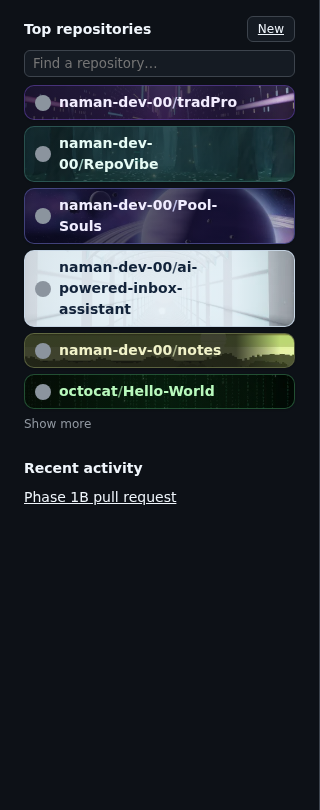
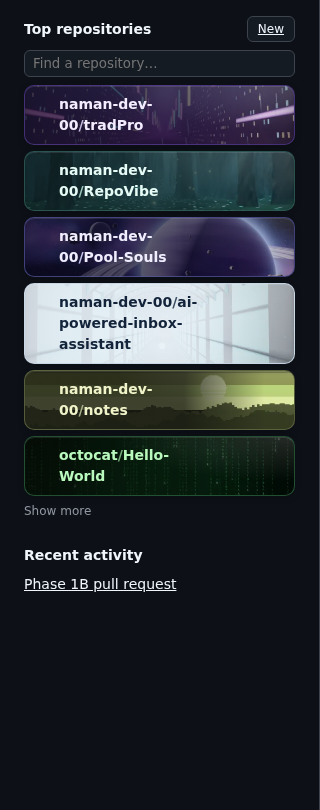
Home: robust Top repositories adapter (fixes missing themed cards on React-style sidebars)
Root cause (reproduced): the adapter only themed <li> rows, needed an h2/h3 heading with exact text or a
legacy container id, and painted the art on the <li> only. On sidebar markup with div[role=listitem]
rows, a heading in a span, or rows that are the link itself, it themed 0 of 6 rows; and where a row
wrapper paints GitHub's opaque surface the art was hidden even when detected.

New scoped adapter: finds the list by legacy id, landmark/label or heading text; recognises rows
structurally (largest ancestor of a /owner/repo link that holds no other repository); neutralises inner
row backgrounds only inside themed rows; per-row diagnostics (method, links, themed/unthemed with reason)
in Studio > Settings > Diagnostics. Cards: art across the row, light sheen, hover lift with subtle
perspective, accent glow. Tests: React and anchor sidebar variants (themes, visible art, contrast,
sync, dynamic rows, click-through, exact DOM restore).

Claude-Session: https://claude.ai/code/session_018pJs9o4gSBzLeWY4NbbjW7

Changed region(s): [[0.0625, 0.0926, 0.9375, 0.6481], [0.0625, 0.679, 0.5625, 0.7407]]

diff --git a/content.js b/content.js
@@ -362,22 +362,59 @@ ${M}.repv-motion-cinematic body::before { animation:repv-parallax 48s ease-in-ou
      readable. Only rows whose link is exactly /owner/repo are styled; links, avatars and click behaviour are untouched
      (we only add data-repv-card* attributes and one <style>). Nothing is fetched from GitHub. */
   const isHome = () => location.hostname === 'github.com' && (location.pathname === '/' || location.pathname === '/dashboard');
-  const HEADING = /^\s*top repositories\s*$/i;
-  function topRepositoryRows() {
-    let container = document.getElementById('dashboard-repos-container') || document.querySelector('.js-repos-container');
-    if (!container) {
-      const heading = [...document.querySelectorAll('aside h2, aside h3, h2, h3, [role="heading"]')].find(h => HEADING.test(h.textContent || ''));
-      for (let el = heading?.parentElement, i = 0; el && i < 5 && !container; el = el.parentElement, i++) if (el.querySelector('li a[href]')) container = el;
-    }
-    if (!container) return [];
-    const rows = [];
-    for (const li of container.querySelectorAll('li')) {
-      for (const a of li.querySelectorAll('a[href]')) {
-        let u; try { u = new URL(a.getAttribute('href'), location.origin); } catch (_) { continue; }
-        if (u.origin !== location.origin || u.pathname.split('/').filter(Boolean).length !== 2) continue;
-        const repo = C.repositoryFromUrl(u.href);
-        if (repo) { rows.push({ li, repo, href: u.href }); break; }
+  /* Homepage adapter. GitHub's signed-in dashboard has been served both as classic markup (#dashboard-repos-container,
+     <li> rows) and as React (hashed classes, div[role=listitem] rows, headings in spans). Nothing here depends on one
+     selector: (1) find the Top repositories list by legacy id, landmark/label or its heading text; (2) find every link
+     whose path is exactly /owner/repo inside it; (3) the row is the largest ancestor of a link that contains no other
+     repository (works for li, div rows and rows that are the link itself). Each decision is recorded for diagnostics. */
+  const HEADING = /^\s*top\s+repositories\s*$/i;
+  const REPO_LIST_LABEL = /top repositories/i;
+  let cardDiag = { home: false };
+  function repoKeyOf(a) {
+    let u; try { u = new URL(a.getAttribute('href'), location.origin); } catch (_) { return null; }
+    if (u.origin !== location.origin || u.search || u.pathname.split('/').filter(Boolean).length !== 2) return null;
+    return C.repositoryFromUrl(u.href);
+  }
+  function findRepoList() {
+    const legacy = document.getElementById('dashboard-repos-container') || document.querySelector('.js-repos-container');
+    if (legacy) return { container: legacy, method: 'legacy id' };
+    const labelled = [...document.querySelectorAll('[aria-label], [data-testid]')].find(el => REPO_LIST_LABEL.test(el.getAttribute('aria-label') || '') || /top-?repositories/i.test(el.getAttribute('data-testid') || ''));
+    if (labelled && labelled.querySelector('a[href]')) return { container: labelled, method: 'label' };
+    // Heading text: any short element whose whole text is "Top repositories" (h1–h6, role=heading, span, div, summary).
+    const heading = [...document.querySelectorAll('h1, h2, h3, h4, h5, h6, [role="heading"], summary, span, div')]
+      .find(el => (el.textContent || '').length <= 40 && HEADING.test(el.textContent || ''));
+    if (!heading) return { container: null, method: 'none', reason: 'no "Top repositories" heading, landmark or legacy container on this page' };
+    for (let el = heading.parentElement, i = 0; el && el !== document.body && i < 10; el = el.parentElement, i++) {
+      const links = [...el.querySelectorAll('a[href]')].filter(a => !heading.contains(a) && repoKeyOf(a));
+      if (links.length) {
+        // Never take a container as wide as the feed: the sidebar list is narrow.
+        if (el.getBoundingClientRect().width > Math.max(560, innerWidth * 0.55)) return { container: null, method: 'heading', reason: 'heading found but its nearest list container is as wide as the page (feed), not themed' };
+        return { container: el, method: 'heading', heading };
       }
+    }
+    return { container: null, method: 'heading', reason: 'heading found but no repository links near it yet (list still loading?)' };
+  }
+  function topRepositoryRows() {
+    const found = findRepoList();
+    cardDiag = { home: true, method: found.method, reason: found.reason || '', links: 0, rows: [] };
+    if (!found.container) return [];
+    const container = found.container;
+    const links = [...container.querySelectorAll('a[href]')].filter(a => !(found.heading && found.heading.contains(a)));
+    const rows = [], seen = new Set();
+    for (const a of links) {
+      const repo = repoKeyOf(a);
+      if (!repo) continue;
+      cardDiag.links++;
+      // Largest ancestor (inside the container) that holds only this repository's links.
+      let row = a;
+      for (let el = a.parentElement; el && el !== container; el = el.parentElement) {
+        const keys = new Set([...el.querySelectorAll('a[href]')].map(x => repoKeyOf(x)?.key).filter(Boolean));
+        if (keys.size > 1 || el.querySelector('input, textarea, select, h1, h2, h3')) break;
+        row = el;
+      }
+      if (seen.has(row)) continue;
+      seen.add(row);
+      rows.push({ row, repo });
     }
     return rows;
   }
@@ -407,46 +444,56 @@ ${M}.repv-motion-cinematic body::before { animation:repv-parallax 48s ease-in-ou
     // name, muted owner and accent against the brightest/darkest pixels of the art).
     const a = C.requiredGlass({ ...v, surface: v.bg, glassOpacity: 62, wallpaperOverlay: 0, wallpaperBrightness: 100, wallpaperOpacity: 100 }, C.wallpaperTone(v.wallpaperRef));
     const img = cardImage(theme);
-    return `li[data-repv-card="${theme.id}"] { --repv-card-glass:${rgba(v.bg, a)}; --repv-card-solid:${v.bg}; --repv-card-text:${v.text};
+    return `[data-repv-card="${theme.id}"] { --repv-card-glass:${rgba(v.bg, a)}; --repv-card-solid:${v.bg}; --repv-card-text:${v.text};
  --repv-card-muted:${v.muted}; --repv-card-accent:${v.accent}; --repv-card-border:${rgba(v.border, 0.9)};
  --repv-card-img:${img ? `url("${img}")` : `linear-gradient(135deg, ${v.bg}, ${v.gradientTo} 60%, ${v.gradientThird})`}; }`;
   }
   const CARD_CSS = `
-li[data-repv-card] { position:relative; list-style:none; margin:6px 0 0 !important; padding:6px 46px 6px 10px !important; border-radius:10px;
+[data-repv-card] { position:relative; list-style:none; margin:6px 0 0 !important; padding:8px 84px 8px 10px !important; border-radius:10px; min-height:40px; box-sizing:border-box;
  border:1px solid var(--repv-card-border); overflow:hidden; color:var(--repv-card-text) !important;
  background-color:var(--repv-card-solid) !important;
- background-image:linear-gradient(90deg, var(--repv-card-glass) 0, var(--repv-card-glass) calc(100% - 58px), transparent calc(100% - 14px)), var(--repv-card-img) !important;
- background-size:auto, cover !important; background-position:center, center right !important; background-repeat:no-repeat !important;
- box-shadow:0 1px 2px rgba(0,0,0,.18); }
-li[data-repv-card] > div { margin-top:0 !important; align-items:center; }
-li[data-repv-card] a, li[data-repv-card] a * { color:var(--repv-card-text) !important; }
-li[data-repv-card] a span, li[data-repv-card] .color-fg-muted { color:var(--repv-card-muted) !important; }
-li[data-repv-card] a:hover { text-decoration:underline; text-decoration-color:var(--repv-card-accent); }
-li[data-repv-card]:focus-within { outline:2px solid var(--repv-card-accent); outline-offset:1px; }
+ background-image:radial-gradient(120% 140% at 100% 0%, rgba(255,255,255,.14), transparent 55%), linear-gradient(90deg, var(--repv-card-glass) 0, var(--repv-card-glass) calc(100% - 110px), rgba(0,0,0,.04) calc(100% - 30px)), var(--repv-card-img) !important;
+ background-size:auto, auto, cover !important; background-position:center, center, center right !important; background-repeat:no-repeat !important;
+ box-shadow:inset 0 1px 0 rgba(255,255,255,.10), 0 2px 6px rgba(0,0,0,.22); }
+[data-repv-card][data-repv-card-inline] { display:block !important; }
+/* GitHub's own row wrappers must not paint over the card art (React rows often carry an opaque background). */
+[data-repv-card] :is(div, span, li, ul, p, strong, small, header, footer, section) { background-color:transparent !important; background-image:none !important; }
+[data-repv-card] > div { margin-top:0 !important; align-items:center; }
+[data-repv-card] a, [data-repv-card] a *, a[data-repv-card], a[data-repv-card] * { color:var(--repv-card-text) !important; }
+[data-repv-card] a span, [data-repv-card] .color-fg-muted { color:var(--repv-card-muted) !important; }
+[data-repv-card] a:hover, a[data-repv-card]:hover { text-decoration:underline; text-decoration-color:var(--repv-card-accent); }
+[data-repv-card]:focus-within, a[data-repv-card]:focus-visible { outline:2px solid var(--repv-card-accent); outline-offset:1px; }
 @media (prefers-reduced-motion:no-preference) {
- li[data-repv-card] { transition:transform .16s ease, box-shadow .16s ease, border-color .16s ease; }
- li[data-repv-card]:hover { transform:translateY(-1px); border-color:var(--repv-card-accent); box-shadow:0 6px 16px rgba(0,0,0,.28), 0 0 0 1px var(--repv-card-accent); }
+ [data-repv-card] { transition:transform .22s cubic-bezier(.2,.7,.2,1), box-shadow .22s ease, border-color .22s ease, background-position .6s ease; transform-origin:50% 100%; }
+ [data-repv-card]:hover { transform:perspective(520px) rotateX(4deg) translateY(-2px); border-color:var(--repv-card-accent);
+  background-position:center, center, 70% 40% !important; box-shadow:inset 0 1px 0 rgba(255,255,255,.18), 0 10px 22px rgba(0,0,0,.35), 0 0 0 1px var(--repv-card-accent), 0 0 18px -4px var(--repv-card-accent); }
 }
-@media (prefers-contrast:more) { li[data-repv-card] { background-image:none !important; } }
-@media (forced-colors:active) { li[data-repv-card] { background:none !important; border:1px solid CanvasText; padding:4px 0 !important; }
- li[data-repv-card] a, li[data-repv-card] a * { color:LinkText !important; } }
+@media (prefers-contrast:more) { [data-repv-card] { background-image:none !important; } }
+@media (forced-colors:active) { [data-repv-card] { background:none !important; border:1px solid CanvasText; padding:4px 0 !important; }
+ [data-repv-card] a, [data-repv-card] a * { color:LinkText !important; } }
 `;
   function clearCards() {
     document.getElementById(CARDS_STYLE_ID)?.remove();
-    for (const li of document.querySelectorAll('li[data-repv-card]')) li.removeAttribute('data-repv-card');
+    for (const el of document.querySelectorAll('[data-repv-card]')) { el.removeAttribute('data-repv-card'); el.removeAttribute('data-repv-card-inline'); }
   }
   let lastCardsCss = '';
   function renderCards() {
     if (tornDown) return;
-    const rows = isHome() && config.enabled ? topRepositoryRows() : [];
-    if (!rows.length) { if (lastCardsCss || document.querySelector('li[data-repv-card]')) { clearCards(); lastCardsCss = ''; } return; }
+    if (!isHome()) { cardDiag = { home: false }; if (lastCardsCss || document.querySelector('[data-repv-card]')) { clearCards(); lastCardsCss = ''; } return; }
+    if (!config.enabled) { cardDiag = { home: true, reason: 'RepoVibe is turned off' }; clearCards(); lastCardsCss = ''; return; }
+    const rows = topRepositoryRows();
+    if (!rows.length) { if (lastCardsCss || document.querySelector('[data-repv-card]')) { clearCards(); lastCardsCss = ''; } return; }
     const themes = new Map(), unpersisted = [];
-    for (const { li, repo } of rows) {
+    for (const { row, repo } of rows) {
       const r = C.themeResolution(config, `https://github.com/${repo.key}`);
       if (r.source === 'auto' && !r.persisted) unpersisted.push(repo.key);
-      if (!r.theme) { if (li.hasAttribute('data-repv-card')) li.removeAttribute('data-repv-card'); continue; }
+      const why = !r.theme ? (r.id === 'native' ? `${r.scope} choice is "Original GitHub"` : r.scope === 'global' && !config.autoAssign ? 'automatic themes are off and the global theme is Original GitHub' : 'no theme resolved') : '';
+      cardDiag.rows.push({ repo: repo.label, row: row.tagName.toLowerCase(), theme: r.theme ? r.theme.name : null, source: r.scope, reason: why });
+      if (!r.theme) { if (row.hasAttribute('data-repv-card')) row.removeAttribute('data-repv-card'); continue; }
       themes.set(r.theme.id, r.theme);
-      if (li.getAttribute('data-repv-card') !== r.theme.id) li.setAttribute('data-repv-card', r.theme.id);
+      if (row.getAttribute('data-repv-card') !== r.theme.id) row.setAttribute('data-repv-card', r.theme.id);
+      const inline = getComputedStyle(row).display === 'inline';
+      if (inline !== row.hasAttribute('data-repv-card-inline')) row.toggleAttribute('data-repv-card-inline', inline);
     }
     if (unpersisted.length) persistAutoAssignments(unpersisted);
     const css = themes.size ? CARD_CSS + [...themes.values()].map(cardRule).join('\n') : '';
@@ -616,7 +663,8 @@ li[data-repv-card]:focus-within { outline:2px solid var(--repv-card-accent); out
       theme: t && { id: t.id, name: t.name, wallpaperBlur: t.wallpaperBlur, panelBlur: t.glass, overlay: t.wallpaperOverlay, brightness: t.wallpaperBrightness, opacity: t.wallpaperOpacity, panelOpacityChosen: t.glassOpacity },
       panelOpacityRendered: Number(cs.getPropertyValue('--repv-panel-opacity')) || null,
       panelsWithBackdropBlur: blurs.length, panelsDetected: document.querySelectorAll('[data-repv-panel]').length,
-      wallpaperOnRoot: /url\(/.test(cs.backgroundImage)
+      wallpaperOnRoot: /url\(/.test(cs.backgroundImage),
+      homeCards: cardDiag
     };
   }
 

diff --git a/tests/e2e/fixture-home-react.html b/tests/e2e/fixture-home-react.html
@@ -1,0 +1,68 @@
+<!doctype html>
+<!-- Offline stand-in for the SIGNED-IN GitHub Home dashboard (authenticated-page fixture). It mirrors the markup
+     RepoVibe relies on: the left sidebar "Top repositories" list (#dashboard-repos-container, one <li> per repository
+     with an avatar link and an owner/repo name link), a "Show more" button that appends rows dynamically, the
+     Home/feed column and the global header. This is NOT real logged-in GitHub; real-account visuals are UNVERIFIED. -->
+<html lang="en" data-color-mode="__MODE__" data-light-theme="light" data-dark-theme="dark">
+<head>
+<meta charset="utf-8">
+<title>GitHub</title>
+<style>
+  [data-color-mode=light] { --bgColor-default:#ffffff; --bgColor-muted:#f6f8fa; --bgColor-inset:#f6f8fa; --fgColor-default:#1f2328;
+    --fgColor-muted:#59636e; --fgColor-accent:#0969da; --borderColor-default:#d1d9e0; color-scheme:light; }
+  [data-color-mode=dark] { --bgColor-default:#0d1117; --bgColor-muted:#151b23; --bgColor-inset:#010409; --fgColor-default:#f0f6fc;
+    --fgColor-muted:#9198a1; --fgColor-accent:#4493f8; --borderColor-default:#3d444d; color-scheme:dark; }
+  body { margin:0; background:var(--bgColor-default); color:var(--fgColor-default); font:14px/1.5 sans-serif; }
+  .AppHeader { display:flex; gap:16px; align-items:center; padding:12px 16px; background:var(--bgColor-inset); border-bottom:1px solid var(--borderColor-default); }
+  .AppHeader nav a { color:var(--fgColor-default); text-decoration:none; font-weight:600; margin-right:12px; }
+  .layout { display:grid; grid-template-columns:320px 1fr; min-height:calc(100vh - 50px); }
+  .feed-left-sidebar { border-right:1px solid var(--borderColor-default); padding:16px 24px; background:var(--bgColor-default); }
+  .feed-main { padding:24px 32px; }
+  h2 { font-size:14px; margin:0; }
+  .d-flex { display:flex; } .flex-items-center { align-items:center; } .flex-justify-between { justify-content:space-between; }
+  .width-full { width:100%; } .mt-2 { margin-top:8px; } .mr-2 { margin-right:8px; } .mb-2 { margin-bottom:8px; }
+  .list-style-none { list-style:none; margin:8px 0 0; padding:0; }
+  .avatar { width:16px; height:16px; border-radius:50%; background:#8b949e; display:inline-block; }
+  .color-fg-default { color:var(--fgColor-default); } .color-fg-muted { color:var(--fgColor-muted); }
+  .markdown-title { font-weight:600; text-decoration:none; font-size:14px; }
+  .form-control { width:100%; box-sizing:border-box; padding:5px 8px; border:1px solid var(--borderColor-default); border-radius:6px; background:var(--bgColor-muted); color:inherit; }
+  .btn { border:1px solid var(--borderColor-default); background:var(--bgColor-muted); color:var(--fgColor-default); border-radius:6px; padding:3px 10px; font-size:12px; }
+  .btn-link { border:0; background:none; color:var(--fgColor-muted); padding:0; cursor:pointer; font-size:12px; }
+  .Box { border:1px solid var(--borderColor-default); border-radius:6px; padding:16px; margin-bottom:16px; background:var(--bgColor-default); }
+  .UnderlineNav a { display:inline-block; padding:8px 12px; color:var(--fgColor-default); text-decoration:none; }
+  .UnderlineNav a[aria-current] { border-bottom:2px solid #fd8c73; font-weight:600; }
+</style>
+</head>
+<body>
+  <header class="AppHeader"><strong>GitHub</strong><nav aria-label="Global"><a id="navHome" href="/" aria-current="page">Dashboard</a><a href="/pulls">Pull requests</a><a href="/issues">Issues</a></nav><span class="avatar" aria-label="Signed in as naman-dev-00"></span></header>
+  <div class="layout">
+    <aside class="feed-left-sidebar" aria-label="Account context">
+      <section class="DashboardSidebar-module__section__x7Q2a" data-variant="__VARIANT__">
+        <div class="Box_1__k2LmP d-flex flex-justify-between flex-items-center"><span class="prc-Heading-Heading-MtWFE TopRepos-module__title__Aq1">Top repositories</span><a class="prc-Button-ButtonBase-9n-Xk" data-variant="primary" href="/new">New</a></div>
+        <div class="mt-2"><input class="form-control" type="text" placeholder="Find a repository…" aria-label="Find a repository…"></div>
+        __REACT_LIST__
+        <button class="btn-link mt-2" id="showMore" type="button">Show more</button>
+      </section>
+      <h2 class="mt-2" style="margin-top:24px">Recent activity</h2>
+      <ul class="list-style-none" id="recent"><li><a class="color-fg-default" href="/naman-dev-00/RepoVibe/pull/2">Phase 1B pull request</a></li></ul>
+    </aside>
+    <main class="feed-main" id="main">
+      <h1 style="font-size:20px;margin:0 0 12px">Home</h1>
+      <nav class="UnderlineNav" aria-label="Feed"><a href="/" aria-current="page" id="feedHome">For you</a><a href="/?feed=following" id="feedFollowing">Following</a></nav>
+      <div class="Box mt-2"><b>octocat</b> starred <a href="/octocat/Hello-World">octocat/Hello-World</a><p class="color-fg-muted">A feed item that RepoVibe must leave untouched.</p></div>
+      <div class="Box"><b>naman-dev-00</b> pushed to <a href="/naman-dev-00/tradPro">naman-dev-00/tradPro</a><p class="color-fg-muted">2 commits</p></div>
+    </main>
+  </div>
+<script>
+  window.__row = __ROWFN__;
+  // "Show more" appends rows like GitHub's include-fragment does.
+  document.getElementById('showMore').addEventListener('click', () => {
+    for (const name of ['naman-dev-00/dotfiles', 'octo-org/widgets']) {
+      const tpl = document.createElement('template'); tpl.innerHTML = window.__row(name).trim(); const li = tpl.content.firstChild;
+      (document.getElementById('topRepos') || document.querySelector('[role=list]')).appendChild(li);
+    }
+    document.getElementById('showMore').remove();
+  });
+</script>
+</body>
+</html>

diff --git a/tests/e2e/flagship.e2e.js b/tests/e2e/flagship.e2e.js
@@ -240,3 +240,57 @@ test('GitHub Home in light mode with a light flagship card keeps readable names'
     fs.writeFileSync(path.join(SHOTS, 'home-top-repositories-light.png'), await page.locator('aside').screenshot());
   } finally { await close(); }
 });
+
+/* Signed-in Home markup variants (the old adapter themed 0 rows on both: it required <li> rows and a specific heading).
+   'react': div[role=listitem] rows, heading in a span, row wrappers painting GitHub's opaque surface.
+   'anchor': each row is the repository link itself. */
+for (const variant of ['react', 'anchor']) {
+  test(`GitHub Home (${variant} sidebar markup): every row gets its own visible scene card; links, sync, dynamic rows, exact restore`, async () => {
+    const base = await launch({ extension: false });
+    let originalHtml;
+    try { const p = await base.context.newPage(); await p.goto(`https://github.com/?variant=${variant}`); await p.waitForSelector('[role=list] a'); originalHtml = await p.$eval('[role=list]', el => el.outerHTML); }
+    finally { await base.close(); }
+    const { context, errors, close } = await launch();
+    try {
+      context.setDefaultTimeout(30000);
+      await seeded(context);
+      const page = await openHome(context);
+      await page.goto(`https://github.com/?variant=${variant}`);
+      await page.waitForFunction(n => document.querySelectorAll('[data-repv-card]').length === n, HOME_REPOS.length);
+      const rows = await page.$$eval('[data-repv-card]', els => els.map(e => ({ theme: e.getAttribute('data-repv-card'), href: (e.matches('a') ? e : e.querySelector('a.markdown-title, a[href]')).getAttribute('href'),
+        image: getComputedStyle(e).backgroundImage,
+        artVisible: (() => { const r = e.getBoundingClientRect(); let t = document.elementFromPoint(r.right - 20, r.top + r.height / 2); while (t && t !== e) { if (!/rgba\(0, 0, 0, 0\)/.test(getComputedStyle(t).backgroundColor)) return false; t = t.parentElement; } return t === e; })() })));
+      const byHref = Object.fromEntries(rows.map(r => [r.href.slice(1).toLowerCase(), r]));
+      for (const [repo, id, slug] of FLAGSHIP) {
+        assert.equal(byHref[repo.toLowerCase()].theme, id, `${repo} → ${id}`);
+        assert.ok(byHref[repo.toLowerCase()].image.includes(`thumbs/${slug}.webp`), `${repo}: its own scene thumbnail`);
+      }
+      assert.ok(rows.every(r => r.artVisible), `card art is not covered by GitHub's row wrappers: ${JSON.stringify(rows.map(r => r.artVisible))}`);
+      // diagnostics explain what was found
+      const diag = await extPage(context).then(async p => { const d = await p.evaluate(() => chrome.tabs.query({ url: 'https://github.com/*' }).then(t => new Promise(res => chrome.tabs.sendMessage(t[0].id, { type: 'GET_REPO' }, res)))); await p.close(); return d.diagnostics.homeCards; });
+      assert.equal(diag.method, 'heading'); assert.equal(diag.rows.length, HOME_REPOS.length); assert.ok(diag.rows.every(r => r.theme));
+      const contrast = await visualContrast(context, page);
+      assert.equal(contrast.below3.length, 0, JSON.stringify(contrast.below3));
+      // theme change → immediate card update
+      await updateConfig(context, "c.repoAssignments['naman-dev-00/repovibe'] = 'preset-20';");
+      await page.waitForFunction(() => [...document.querySelectorAll('[data-repv-card]')].some(e => e.getAttribute('data-repv-card') === 'preset-20'));
+      await updateConfig(context, "c.repoAssignments['naman-dev-00/repovibe'] = 'preset-8';");
+      // dynamic rows
+      await page.click('#showMore');
+      await page.waitForFunction(n => document.querySelectorAll('[data-repv-card]').length === n, HOME_REPOS.length + 2);
+      fs.writeFileSync(path.join(SHOTS, `home-top-repositories-${variant}.png`), await page.locator('aside').screenshot());
+      // disable → identical DOM, no leftovers
+      await updateConfig(context, 'c.enabled = false;');
+      await page.waitForFunction(() => !document.querySelector('[data-repv-card]') && !document.getElementById('repovibe-cards-v1'));
+      await page.reload(); await page.waitForSelector('[role=list] a');
+      assert.equal(await page.$eval('[role=list]', el => el.outerHTML), originalHtml, 'no attributes left behind');
+      await updateConfig(context, 'c.enabled = true;');
+      await page.waitForFunction(n => document.querySelectorAll('[data-repv-card]').length === n, HOME_REPOS.length);
+      // clicking opens the repository in its own world
+      await page.click('[data-repv-card] a[href="/naman-dev-00/RepoVibe"], a[data-repv-card][href="/naman-dev-00/RepoVibe"]');
+      await page.waitForURL(/naman-dev-00\/RepoVibe$/);
+      await page.waitForFunction(() => getComputedStyle(document.documentElement).getPropertyValue('--repv-wallpaper').includes('enchanted-forest.webp'));
+      assert.deepEqual(errors, []);
+    } finally { await close(); }
+  });
+}

diff --git a/tests/e2e/helpers.js b/tests/e2e/helpers.js
@@ -13,6 +13,16 @@ const EXT = path.resolve(__dirname, '../..');
 const FIXTURE = fs.readFileSync(path.join(__dirname, 'fixture.html'), 'utf8');
 const HOME_FIXTURE = fs.readFileSync(path.join(__dirname, 'fixture-home.html'), 'utf8');
 const LAYOUT_FIXTURE = fs.readFileSync(path.join(__dirname, 'fixture-layout.html'), 'utf8');
+const HOME_REACT_FIXTURE = fs.readFileSync(path.join(__dirname, 'fixture-home-react.html'), 'utf8');
+// Signed-in Home variants (GitHub has served both): 'react' = div[role=listitem] rows whose inner wrapper paints an opaque
+// surface, heading inside a span; 'anchor' = each row IS the repository link.
+const HOME_ROW = {
+  react: n => { const [o, r] = n.split('/'); return `<div role="listitem" class="ListItem__q"><div class="ActionRow__x RowWrapper__bg"><a href="/${n}" data-hovercard-type="repository" aria-label="${n}"><span class="avatar"></span></a><a class="Link__b markdown-title" href="/${n}"><span>${o}</span><span class="color-fg-muted">/</span><span>${r}</span></a></div></div>`; },
+  anchor: n => { const [o, r] = n.split('/'); return `<a class="TopRepoLink__z RowWrapper__bg markdown-title" href="/${n}" style="display:flex;align-items:center;gap:8px;padding:6px 0"><span class="avatar"></span><span>${o}<span class="color-fg-muted">/</span>${r}</span></a>`; }
+};
+const homeVariant = (variant, mode) => HOME_REACT_FIXTURE
+  .replace('__REACT_LIST__', `<div role="list" class="List__a${variant === 'anchor' ? ' AnchorList' : ''}">${HOME_REPOS.map(HOME_ROW[variant]).join('')}</div>`)
+  .replace('__ROWFN__', HOME_ROW[variant].toString()).replace('__VARIANT__', variant).replace('__MODE__', mode);
 // Signed-in Home "Top repositories" rows (the four mapped repositories plus unconfigured ones).
 const HOME_REPOS = ['naman-dev-00/tradPro', 'naman-dev-00/RepoVibe', 'naman-dev-00/Pool-Souls', 'naman-dev-00/ai-powered-inbox-assistant', 'naman-dev-00/notes', 'octocat/Hello-World'];
 const homeRow = name => { const [o, r] = name.split('/'); return `<li class="public source"><div class="width-full d-flex mt-2"><a class="mr-2 d-flex flex-items-center" href="/${name}" aria-label="Repository"><span class="avatar"></span></a><div class="wb-break-word"><a class="color-fg-default lh-0 mb-2 markdown-title" href="/${name}">${o}<span class="color-fg-muted">/</span>${r}</a></div></div></li>`; };
@@ -51,6 +61,9 @@ async function launch({ extension = true, mode = 'dark', fixture = true, colorSc
     // /<owner>/<repo>/layout: GitHub's current React repository layout (full-width PageLayout wrappers, file table, list).
     if (/^\/[^/]+\/[^/]+\/layout$/.test(url.pathname)) {
       return route.fulfill({ contentType: 'text/html; charset=utf-8', body: LAYOUT_FIXTURE.replaceAll('__TITLE__', title).replace('__MODE__', mode) });
+    }
+    if ((url.pathname === '/' || url.pathname === '/dashboard') && HOME_ROW[url.searchParams.get('variant')]) {
+      return route.fulfill({ contentType: 'text/html; charset=utf-8', body: homeVariant(url.searchParams.get('variant'), mode) });
     }
     if (url.pathname === '/' || url.pathname === '/dashboard') {
       return route.fulfill({ contentType: 'text/html; charset=utf-8', body: HOME_FIXTURE.replace('__ROWS__', HOME_REPOS.map(homeRow).join('\n')).replace('__MODE__', mode) });

diff --git a/studio.js b/studio.js
@@ -463,6 +463,9 @@
           d.duplicate ? `WARNING: ${d.instances.length} RepoVibe copies active (${d.instances.join(', ')}) — remove older ones in chrome://extensions` : 'single installation',
           d.active ? `stylesheet ${d.stylesheet} bytes, scene on page background: ${d.wallpaperOnRoot ? 'yes' : 'no'}` : 'theme not active on this page',
           `appearance ${C.APPEARANCES[d.appearance]?.label || d.appearance}, scene window ${d.sceneWindow ? 'on' : 'off'}`,
+          d.homeCards && d.homeCards.home ? (d.homeCards.method && d.homeCards.method !== 'none' && d.homeCards.rows
+            ? `Home · Top repositories found via ${d.homeCards.method}: ${d.homeCards.links} repository links, ${d.homeCards.rows.filter(r => r.theme).length}/${d.homeCards.rows.length} rows themed${d.homeCards.rows.filter(r => !r.theme).map(r => `; ${r.repo} not themed: ${r.reason}`).join('')}`
+            : `Home · Top repositories not themed: ${d.homeCards.reason || 'unknown'}`) : '',
           t ? `${t.name}: wallpaper blur ${t.wallpaperBlur}px, panel backdrop blur ${t.panelBlur}px (${d.panelsWithBackdropBlur} blurred panels), overlay ${t.overlay}%, brightness ${t.brightness}%, panel opacity chosen ${t.panelOpacityChosen}% / rendered ${Math.round((d.panelOpacityRendered || 0) * 100)}%` : ''
         ].filter(Boolean).join(' · ');
       });
